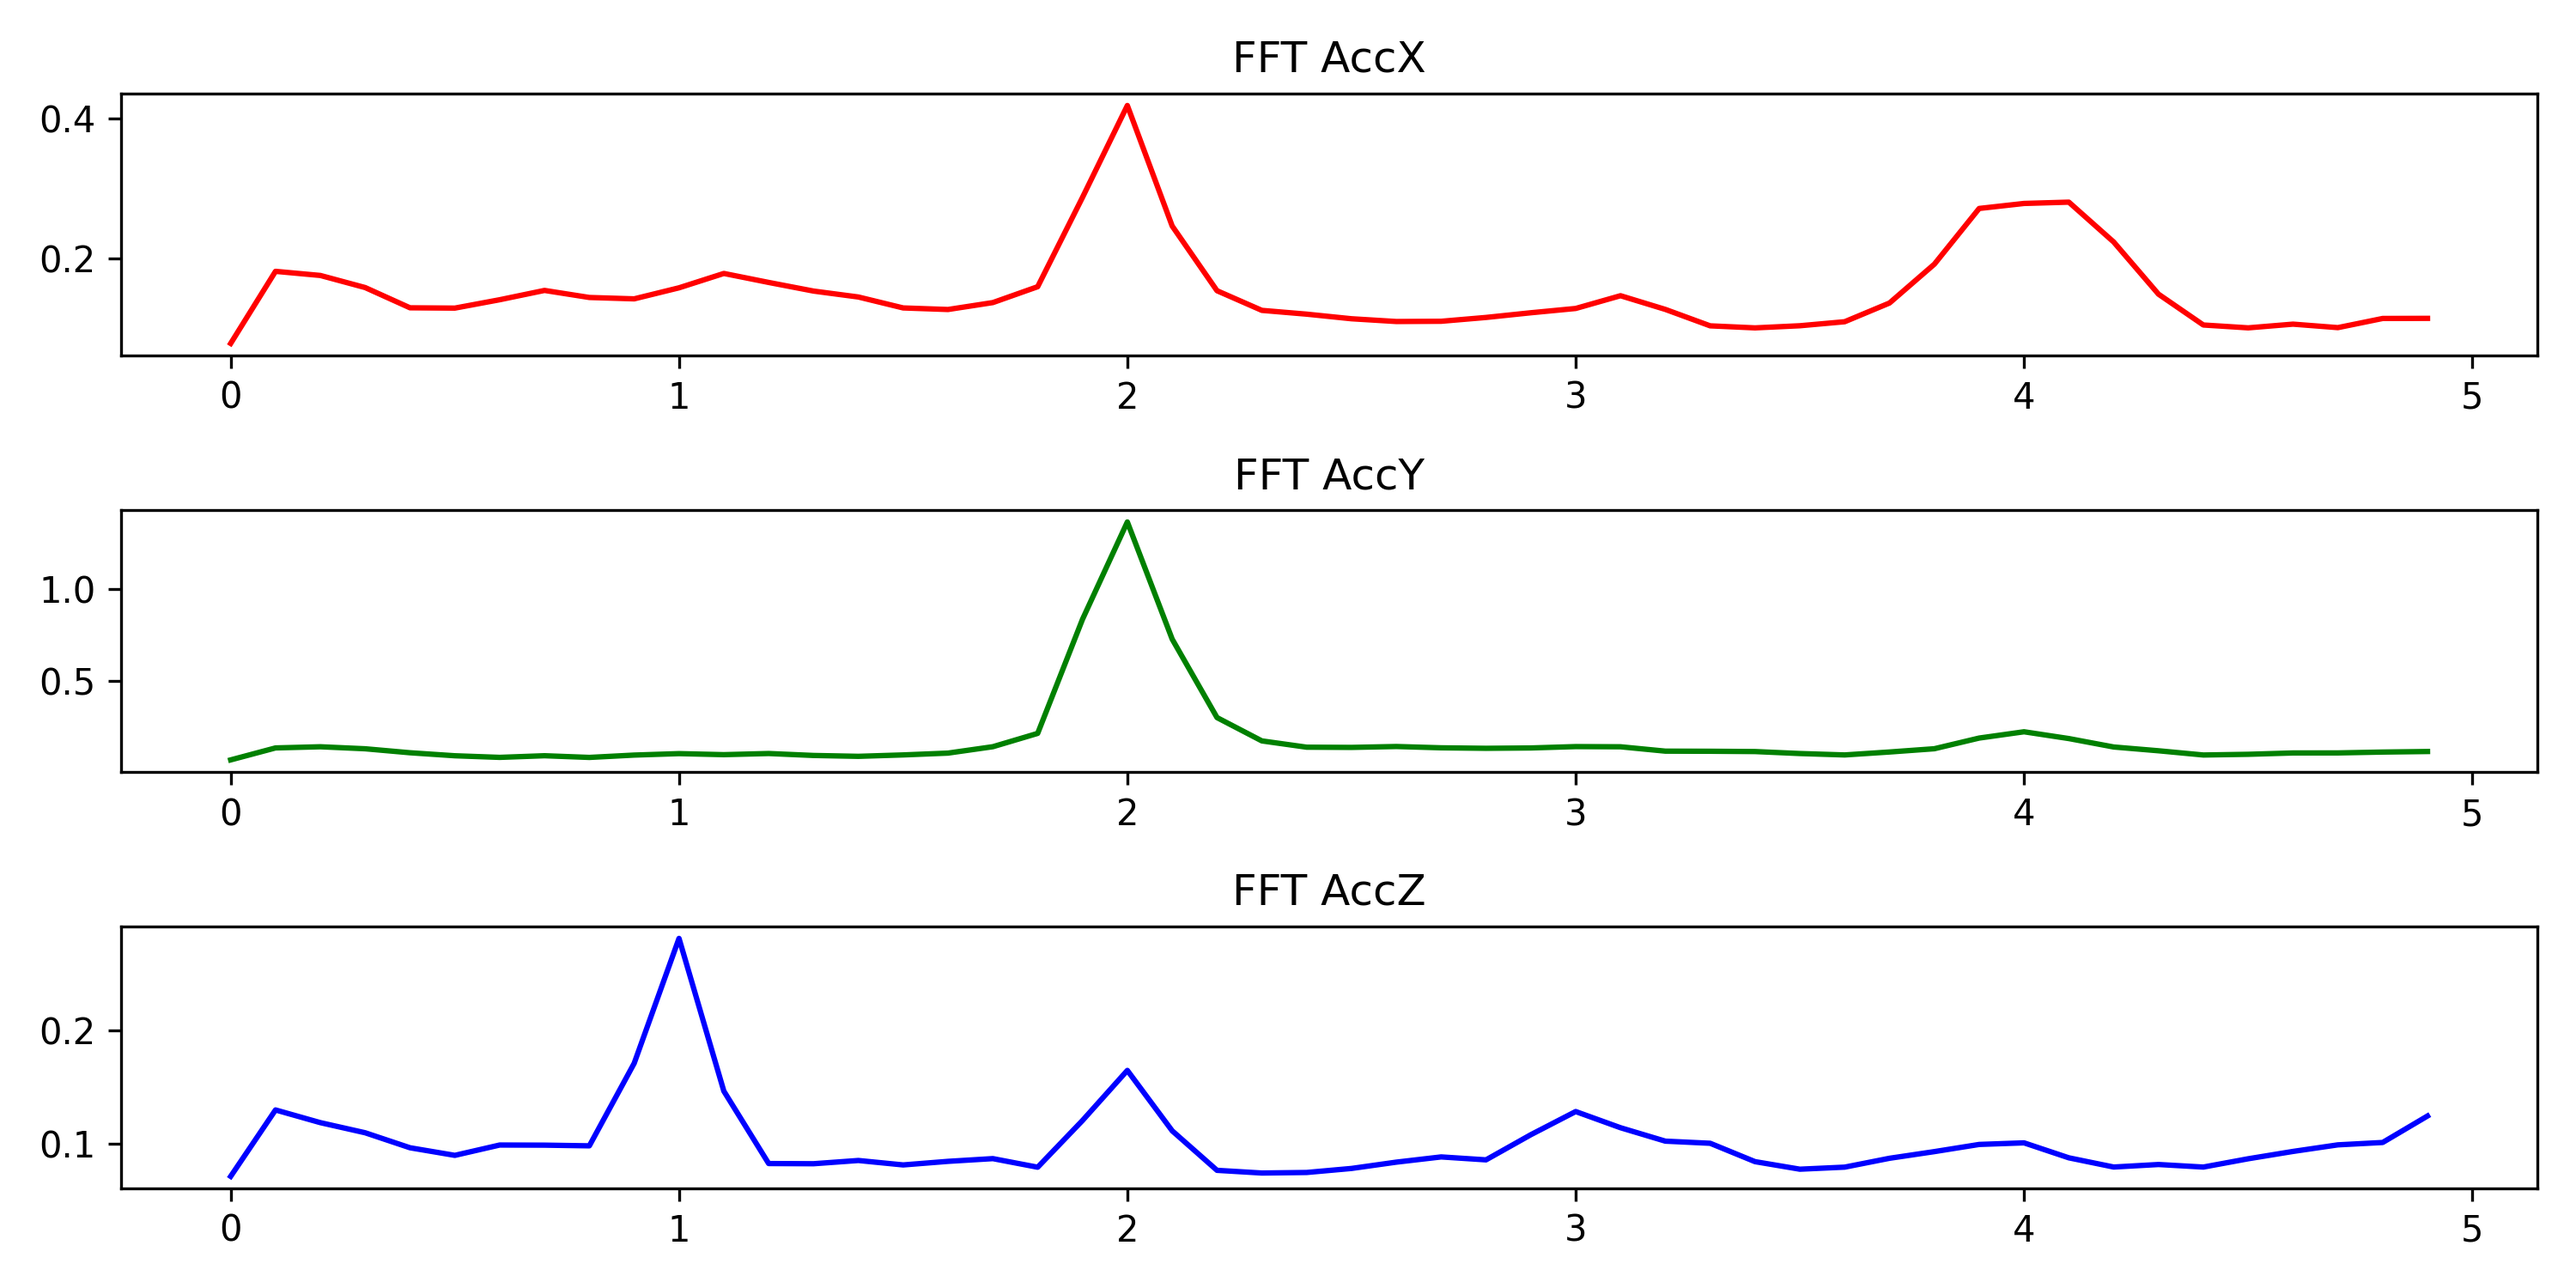
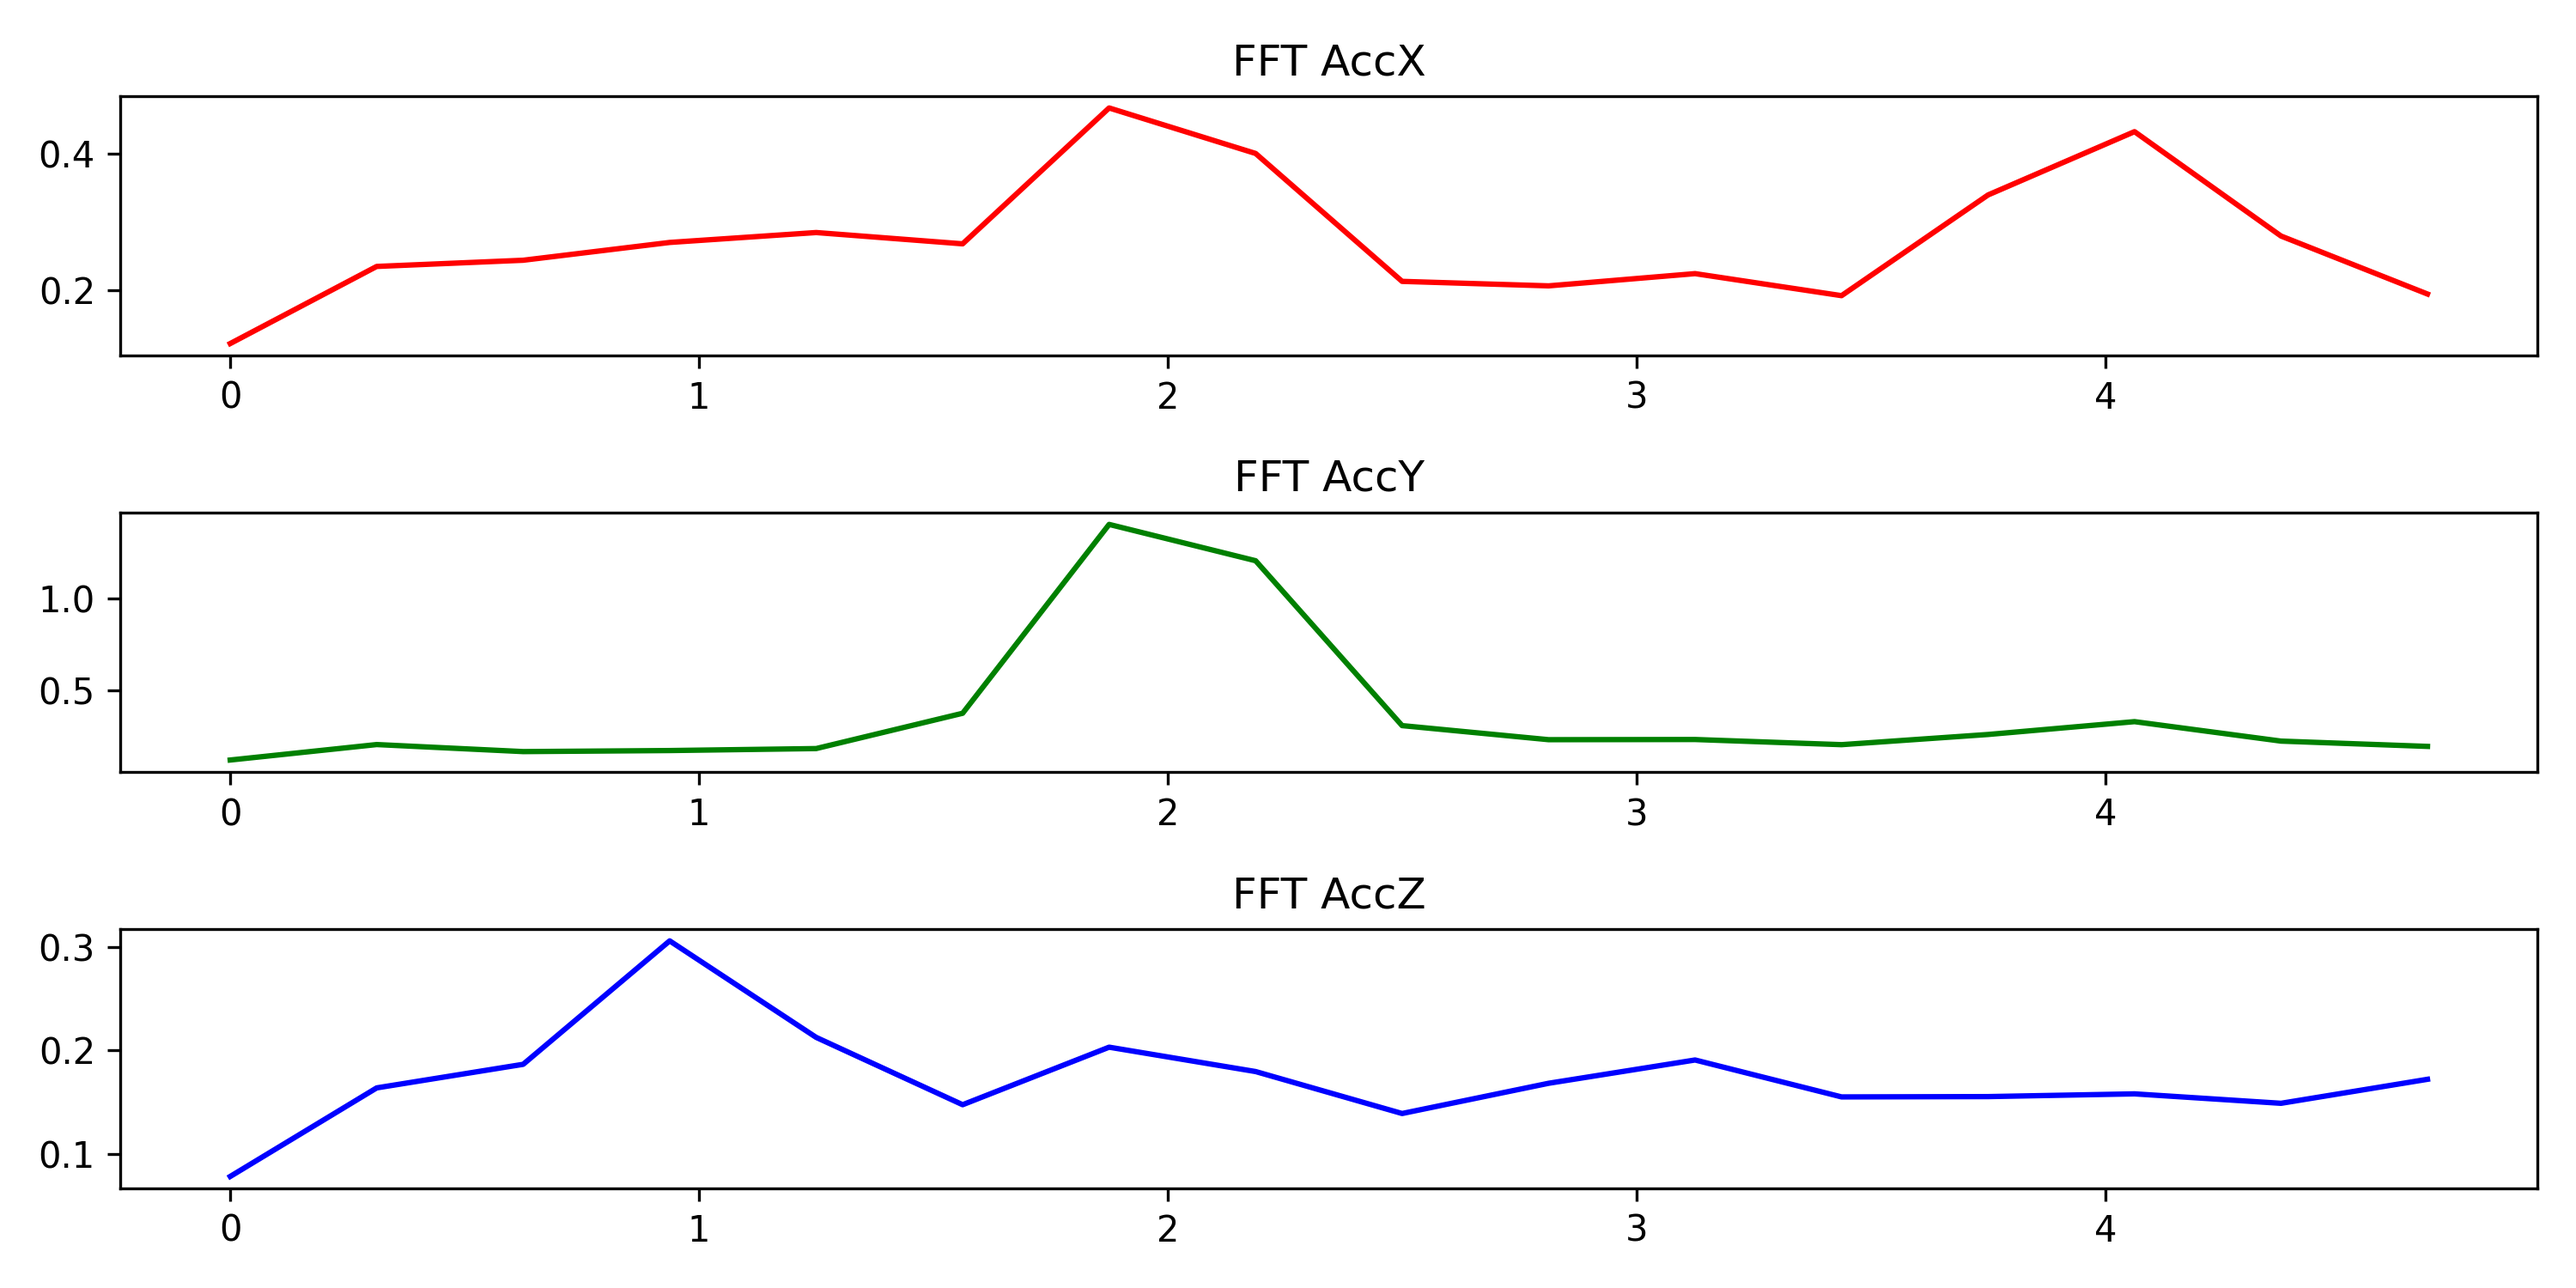
freq

diff --git a/stat/stat_child_2023.py b/stat/stat_child_2023.py
@@ -4,14 +4,13 @@ import numpy as np
 import pandas as pd
 from matplotlib.animation import FuncAnimation
 from mpl_toolkits.mplot3d.art3d import Poly3DCollection
-from scipy.fft import fft, fftfreq
-from scipy.signal import welch
-from scipy.signal.windows import hamming
-from scipy.stats import kurtosis, skew
+
 from scipy.spatial.transform import Rotation as R
 
 from prototype.constant import Constant
 from prototype.global_tramsform import transform_sensor_data_to_df, transform_sensor_data_to_np
+from stat_common import calc_fft_spectral_energy, spectral_entropy, calc_hanmming_window, calc_df_features,calc_df_fft
+
 from utils.slidewindow import slide_window2
 
 all_save_base_path = './child/202303/all/'
@@ -139,7 +138,7 @@ def show_child_hist_stat4():
         data = data.iloc[:, 1:10]
 
         # 计算平均fft
-        fft_x_avg_series, fft_y_avg_series, fft_z_avg_series, freq = calc_df_avg_fft(data)
+        fft_x_avg_series, fft_y_avg_series, fft_z_avg_series, freq, df_freq_stat = calc_df_avg_fft(data)
         save_fft_result(fft_x_avg_series, fft_y_avg_series, fft_z_avg_series, freq,
                         f'{individual}fft_{label}_avg_result.png')
 
@@ -148,6 +147,7 @@ def show_child_hist_stat4():
     all_individual_stat_data = np.array(all_individual)
     std_values = np.std(all_individual_stat_data, axis=0)
     std_df = pd.DataFrame(std_values, index=all_individual[0].index, columns=all_individual[0].columns)
+    df_freq_stat.to_csv(f'{individual}Child_individual_freq_features.csv')
     std_df.to_csv(f'{individual}Child_individual_features.csv')
 
 
@@ -162,146 +162,6 @@ def read_data(file_name='../data/child/2023_03/merged_data/*.csv'):
 
     big_df = pd.concat(appended_data, ignore_index=True)
     return big_df
-
-
-# 计算数据的各维度特征量
-def calc_df_features(df):
-    #
-    df_mean = df.mean()
-    df_min = df.min()
-    df_max = df.max()
-    df_median = df.median()
-    df_std = df.std()
-    # 计算变异系数 (CV)
-    cv = df.std() / df.mean()
-    # 偏度(Skewness)
-    skewness = df.apply(lambda x: skew(x))
-    # 峰度(Kurtosis)
-    kurt = df.apply(lambda x: kurtosis(x))
-    # 信号功率 (Signal Power)
-    signal_power = df.apply(lambda x: np.mean(x ** 2))
-    # 二乘平方根 (Root Mean Square, RMS)
-    rms = df.apply(lambda x: np.sqrt(np.mean(x ** 2)))
-    # 皮尔森相关系数
-    df_pearson = df.corr(method='pearson')
-
-    df_stat = pd.concat([df_mean, df_min, df_max, df_median, df_std, cv, skewness, kurt, signal_power, rms], axis=1)
-    df_stat.columns = ['mean', 'min', 'max', 'median', 'std', 'coefficient variation', 'skewness', 'kurt',
-                       'signal_power', 'rms']
-
-    return df_stat, df_pearson
-
-
-# 对单个dataframe整体进行FFT变换
-def calc_df_fft(df):
-    T = 0.1  # 采样周期为 0.1 秒（10Hz)
-    df_acc_x = df['accx'].values
-    df_acc_y = df['accy'].values
-    df_acc_z = df['accz'].values
-
-    N = len(df_acc_x)
-
-    # 前处理: 去除直流成分
-    df_acc_x = df_acc_x - np.mean(df_acc_x)
-    df_acc_y = df_acc_y - np.mean(df_acc_y)
-    df_acc_z = df_acc_z - np.mean(df_acc_z)
-
-    # 计算傅里叶变换 (对原始数据进行 汉明窗变换)
-    df_acc_x = calc_hanmming_window(df_acc_x, N)
-    df_acc_y = calc_hanmming_window(df_acc_y, N)
-    df_acc_z = calc_hanmming_window(df_acc_z, N)
-
-    # FFT
-    fft_acc_x = fft(df_acc_x)
-    fft_acc_y = fft(df_acc_y)
-    fft_acc_z = fft(df_acc_z)
-
-    # 计算频率
-    freq_acc_x = fftfreq(N, T)[:N // 2]
-
-    positive_fft_x = np.abs(fft_acc_x[:N // 2])
-    positive_fft_y = np.abs(fft_acc_y[:N // 2])
-    positive_fft_z = np.abs(fft_acc_z[:N // 2])
-
-    fft_x_result_scaling = 2.0 / N * positive_fft_x
-    fft_y_result_scaling = 2.0 / N * positive_fft_y
-    fft_z_result_scaling = 2.0 / N * positive_fft_z
-
-    # 获取最大频率的值
-    max_freq_x = freq_acc_x[np.argmax(positive_fft_x)]
-    max_freq_y = freq_acc_x[np.argmax(positive_fft_y)]
-    max_freq_z = freq_acc_x[np.argmax(positive_fft_z)]
-
-    return fft_x_result_scaling, fft_y_result_scaling, fft_z_result_scaling, freq_acc_x, \
-        max_freq_x, max_freq_y, max_freq_z
-
-
-# 计算一个时间步上, 频谱能量和
-def calc_fft_spectral_energy(df):
-    T = 0.1  # 采样周期为 0.1 秒（10Hz)
-    df_acc_x = df['accx'].values
-    df_acc_y = df['accy'].values
-    df_acc_z = df['accz'].values
-
-    N = len(df_acc_x)
-
-    # 前处理: 去除直流成分
-    df_acc_x = df_acc_x - np.mean(df_acc_x)
-    df_acc_y = df_acc_y - np.mean(df_acc_y)
-    df_acc_z = df_acc_z - np.mean(df_acc_z)
-
-    # 计算傅里叶变换 (对原始数据进行 汉明窗变换)
-    df_acc_x = calc_hanmming_window(df_acc_x, N)
-    df_acc_y = calc_hanmming_window(df_acc_y, N)
-    df_acc_z = calc_hanmming_window(df_acc_z, N)
-
-    # FFT
-    fft_acc_x = fft(df_acc_x)
-    fft_acc_y = fft(df_acc_y)
-    fft_acc_z = fft(df_acc_z)
-
-    # 只保留正频率部分（傅里叶变换的前一半结果）
-    fft_acc_x = fft_acc_x[:N // 2]
-    fft_acc_y = fft_acc_y[:N // 2]
-    fft_acc_z = fft_acc_z[:N // 2]
-
-    # spectral_energy 计算频谱能量
-    spectral_energy_x = np.sum(np.abs(fft_acc_x) ** 2)
-    spectral_energy_y = np.sum(np.abs(fft_acc_y) ** 2)
-    spectral_energy_z = np.sum(np.abs(fft_acc_z) ** 2)
-
-    # 使用L1 范式,计算频谱能量
-    total_spectral_energy = spectral_energy_x + spectral_energy_y + spectral_energy_z
-
-    return spectral_energy_x, spectral_energy_y, spectral_energy_z, total_spectral_energy
-
-
-# 计算一个时间步上, 频谱熵
-def spectral_entropy(df):
-    df_acc_x = df['accx'].values
-    df_acc_y = df['accy'].values
-    df_acc_z = df['accz'].values
-
-    # 使用Welch方法计算功率谱密度 (PSD)
-    _, psd_x = welch(df_acc_x, fs=10, nperseg=len(df))  # 10hz
-    _, psd_y = welch(df_acc_y, fs=10, nperseg=len(df))  # 10hz
-    _, psd_z = welch(df_acc_z, fs=10, nperseg=len(df))  # 10hz
-
-    # 归一化 PSD 以形成概率分布
-    psd_norm_x = psd_x / np.sum(psd_x)
-    psd_norm_y = psd_y / np.sum(psd_y)
-    psd_norm_z = psd_z / np.sum(psd_z)
-
-    # 计算 Shannon Entropy
-    entropy_x = -np.sum(psd_norm_x * np.log2(psd_norm_x + np.finfo(float).eps))
-    entropy_y = -np.sum(psd_norm_y * np.log2(psd_norm_y + np.finfo(float).eps))
-    entropy_z = -np.sum(psd_norm_z * np.log2(psd_norm_z + np.finfo(float).eps))
-
-    # 使用L1 范式,进行特征合并
-    entropy_total = entropy_x + entropy_y + entropy_z
-
-    return entropy_x, entropy_y, entropy_z, entropy_total
-
 
 # 对一个dataframe分段计算FFT,然后合并平均FFT的结果
 def calc_df_avg_fft(df):
@@ -376,12 +236,6 @@ def save_fft_result(fft_x_avg_series, fft_y_avg_series, fft_z_avg_series, freq, 
     axs[2].set_title('FFT AccZ')
     fig.tight_layout()
     plt.savefig(f'{file_name}', dpi=300)
-
-
-# 对数据进行汉明窗变换
-def calc_hanmming_window(data, N):
-    hamming_window = hamming(N)
-    return hamming_window * data
 
 
 # 展示儿童进行全局变换后的结果(使用我自己的算法)
@@ -490,4 +344,4 @@ def show_child_after_transformed():
 
 
 if __name__ == '__main__':
-    show_child_hist_stat3()
+    show_child_hist_stat4()

diff --git a/stat/stat_common.py b/stat/stat_common.py
@@ -1,0 +1,149 @@
+# 计算一个时间步上, 频谱能量和
+import numpy as np
+import pandas as pd
+from scipy.signal import welch
+from scipy.signal.windows import hamming
+from scipy.signal import welch
+from scipy.stats import kurtosis, skew
+from scipy.fft import fft, fftfreq
+
+def calc_fft_spectral_energy(df):
+    T = 0.1  # 采样周期为 0.1 秒（10Hz)
+    df_acc_x = df['accx'].values
+    df_acc_y = df['accy'].values
+    df_acc_z = df['accz'].values
+
+    N = len(df_acc_x)
+
+    # 前处理: 去除直流成分
+    df_acc_x = df_acc_x - np.mean(df_acc_x)
+    df_acc_y = df_acc_y - np.mean(df_acc_y)
+    df_acc_z = df_acc_z - np.mean(df_acc_z)
+
+    # 计算傅里叶变换 (对原始数据进行 汉明窗变换)
+    df_acc_x = calc_hanmming_window(df_acc_x, N)
+    df_acc_y = calc_hanmming_window(df_acc_y, N)
+    df_acc_z = calc_hanmming_window(df_acc_z, N)
+
+    # FFT
+    fft_acc_x = fft(df_acc_x)
+    fft_acc_y = fft(df_acc_y)
+    fft_acc_z = fft(df_acc_z)
+
+    # 只保留正频率部分（傅里叶变换的前一半结果）
+    fft_acc_x = fft_acc_x[:N // 2]
+    fft_acc_y = fft_acc_y[:N // 2]
+    fft_acc_z = fft_acc_z[:N // 2]
+
+    # spectral_energy 计算频谱能量
+    spectral_energy_x = np.sum(np.abs(fft_acc_x) ** 2)
+    spectral_energy_y = np.sum(np.abs(fft_acc_y) ** 2)
+    spectral_energy_z = np.sum(np.abs(fft_acc_z) ** 2)
+
+    # 使用L1 范式,计算频谱能量
+    total_spectral_energy = spectral_energy_x + spectral_energy_y + spectral_energy_z
+
+    return spectral_energy_x, spectral_energy_y, spectral_energy_z, total_spectral_energy
+
+
+# 计算一个时间步上, 频谱熵
+def spectral_entropy(df):
+    df_acc_x = df['accx'].values
+    df_acc_y = df['accy'].values
+    df_acc_z = df['accz'].values
+
+    # 使用Welch方法计算功率谱密度 (PSD)
+    _, psd_x = welch(df_acc_x, fs=10, nperseg=len(df))  # 10hz
+    _, psd_y = welch(df_acc_y, fs=10, nperseg=len(df))  # 10hz
+    _, psd_z = welch(df_acc_z, fs=10, nperseg=len(df))  # 10hz
+
+    # 归一化 PSD 以形成概率分布
+    psd_norm_x = psd_x / np.sum(psd_x)
+    psd_norm_y = psd_y / np.sum(psd_y)
+    psd_norm_z = psd_z / np.sum(psd_z)
+
+    # 计算 Shannon Entropy
+    entropy_x = -np.sum(psd_norm_x * np.log2(psd_norm_x + np.finfo(float).eps))
+    entropy_y = -np.sum(psd_norm_y * np.log2(psd_norm_y + np.finfo(float).eps))
+    entropy_z = -np.sum(psd_norm_z * np.log2(psd_norm_z + np.finfo(float).eps))
+
+    # 使用L1 范式,进行特征合并
+    entropy_total = entropy_x + entropy_y + entropy_z
+
+    return entropy_x, entropy_y, entropy_z, entropy_total
+
+
+# 对数据进行汉明窗变换
+def calc_hanmming_window(data, N):
+    hamming_window = hamming(N)
+    return hamming_window * data
+
+# 计算数据的各维度特征量
+def calc_df_features(df):
+    #
+    df_mean = df.mean()
+    df_min = df.min()
+    df_max = df.max()
+    df_median = df.median()
+    df_std = df.std()
+    # 计算变异系数 (CV)
+    cv = df.std() / df.mean()
+    # 偏度(Skewness)
+    skewness = df.apply(lambda x: skew(x))
+    # 峰度(Kurtosis)
+    kurt = df.apply(lambda x: kurtosis(x))
+    # 信号功率 (Signal Power)
+    signal_power = df.apply(lambda x: np.mean(x ** 2))
+    # 二乘平方根 (Root Mean Square, RMS)
+    rms = df.apply(lambda x: np.sqrt(np.mean(x ** 2)))
+    # 皮尔森相关系数
+    df_pearson = df.corr(method='pearson')
+
+    df_stat = pd.concat([df_mean, df_min, df_max, df_median, df_std, cv, skewness, kurt, signal_power, rms], axis=1)
+    df_stat.columns = ['mean', 'min', 'max', 'median', 'std', 'coefficient variation', 'skewness', 'kurt',
+                       'signal_power', 'rms']
+
+    return df_stat, df_pearson
+
+# 对单个dataframe整体进行FFT变换
+def calc_df_fft(df):
+    T = 0.1  # 采样周期为 0.1 秒（10Hz)
+    df_acc_x = df['accx'].values
+    df_acc_y = df['accy'].values
+    df_acc_z = df['accz'].values
+
+    N = len(df_acc_x)
+
+    # 前处理: 去除直流成分
+    df_acc_x = df_acc_x - np.mean(df_acc_x)
+    df_acc_y = df_acc_y - np.mean(df_acc_y)
+    df_acc_z = df_acc_z - np.mean(df_acc_z)
+
+    # 计算傅里叶变换 (对原始数据进行 汉明窗变换)
+    df_acc_x = calc_hanmming_window(df_acc_x, N)
+    df_acc_y = calc_hanmming_window(df_acc_y, N)
+    df_acc_z = calc_hanmming_window(df_acc_z, N)
+
+    # FFT
+    fft_acc_x = fft(df_acc_x)
+    fft_acc_y = fft(df_acc_y)
+    fft_acc_z = fft(df_acc_z)
+
+    # 计算频率
+    freq_acc_x = fftfreq(N, T)[:N // 2]
+
+    positive_fft_x = np.abs(fft_acc_x[:N // 2])
+    positive_fft_y = np.abs(fft_acc_y[:N // 2])
+    positive_fft_z = np.abs(fft_acc_z[:N // 2])
+
+    fft_x_result_scaling = 2.0 / N * positive_fft_x
+    fft_y_result_scaling = 2.0 / N * positive_fft_y
+    fft_z_result_scaling = 2.0 / N * positive_fft_z
+
+    # 获取最大频率的值
+    max_freq_x = freq_acc_x[np.argmax(positive_fft_x)]
+    max_freq_y = freq_acc_x[np.argmax(positive_fft_y)]
+    max_freq_z = freq_acc_x[np.argmax(positive_fft_z)]
+
+    return fft_x_result_scaling, fft_y_result_scaling, fft_z_result_scaling, freq_acc_x, \
+        max_freq_x, max_freq_y, max_freq_z
